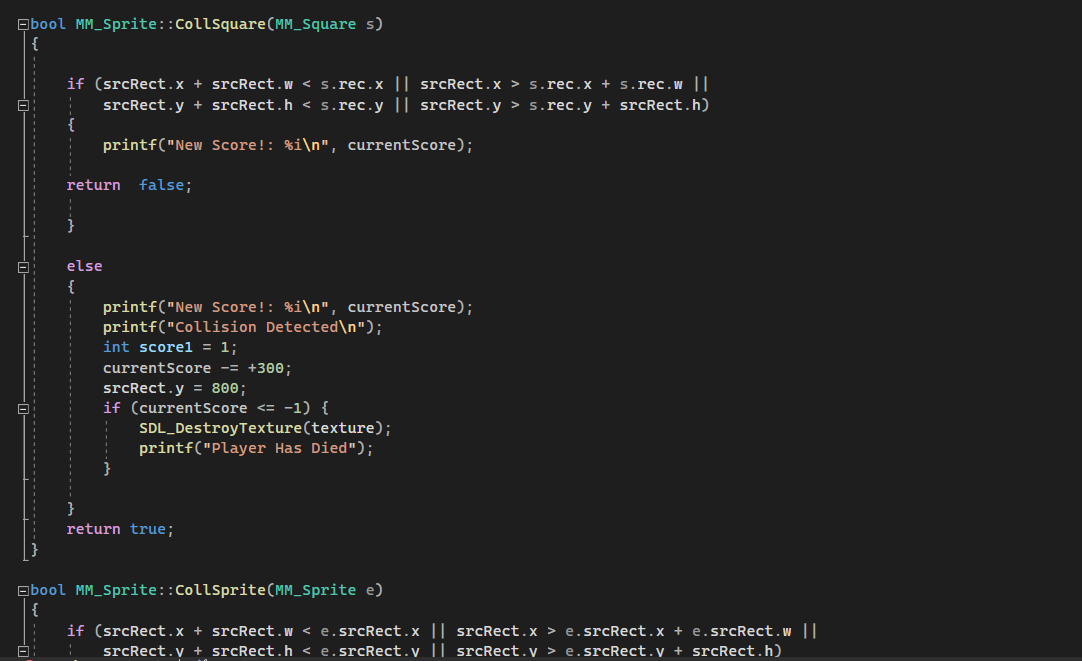
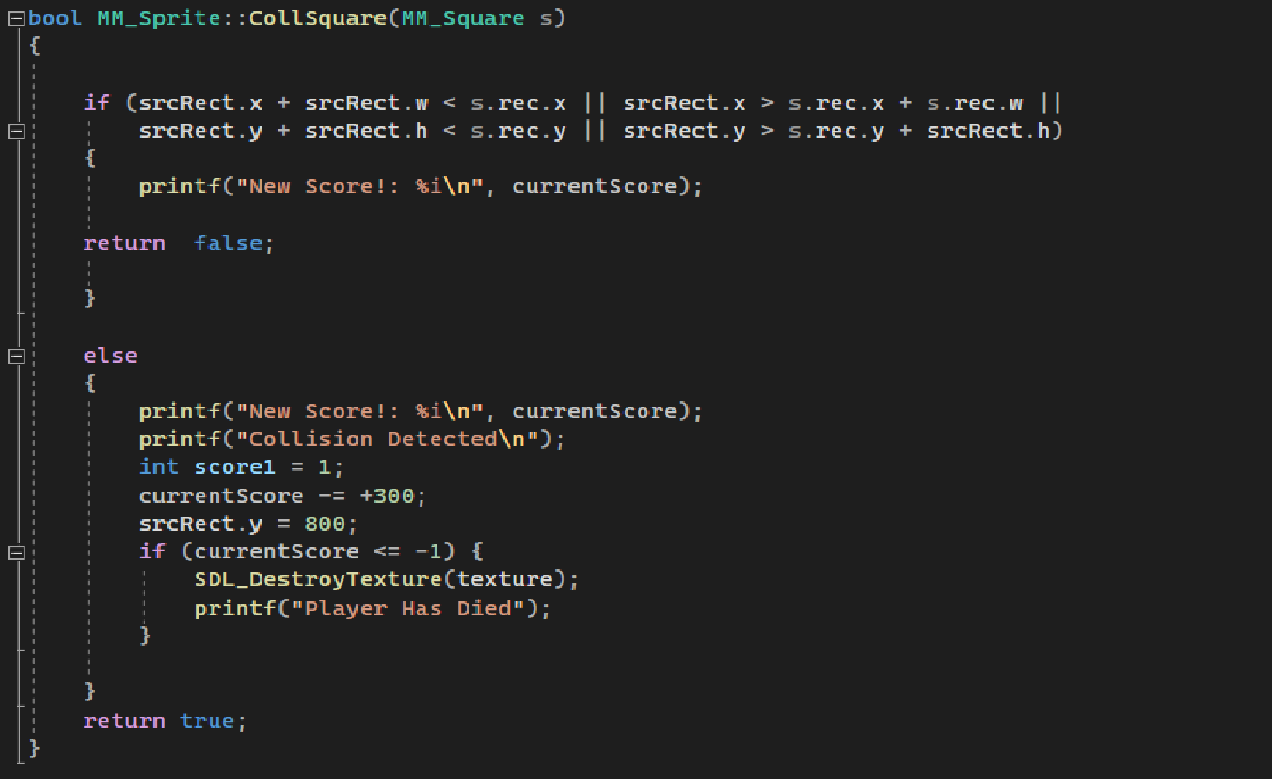
Fixing Script Size

diff --git a/index.html b/index.html
@@ -95,7 +95,7 @@
     <table>
     <tr>
         <td>
-            <img src="images/Gnattter.png" alt="Poggers Game" style="width: 50%;">
+            <img src="images/Gnattter.png" alt="Poggers Game" style="width: 40%;">
             <img src="images/GnatterScript.png" alt="Script">
         </td>
     </tr>
